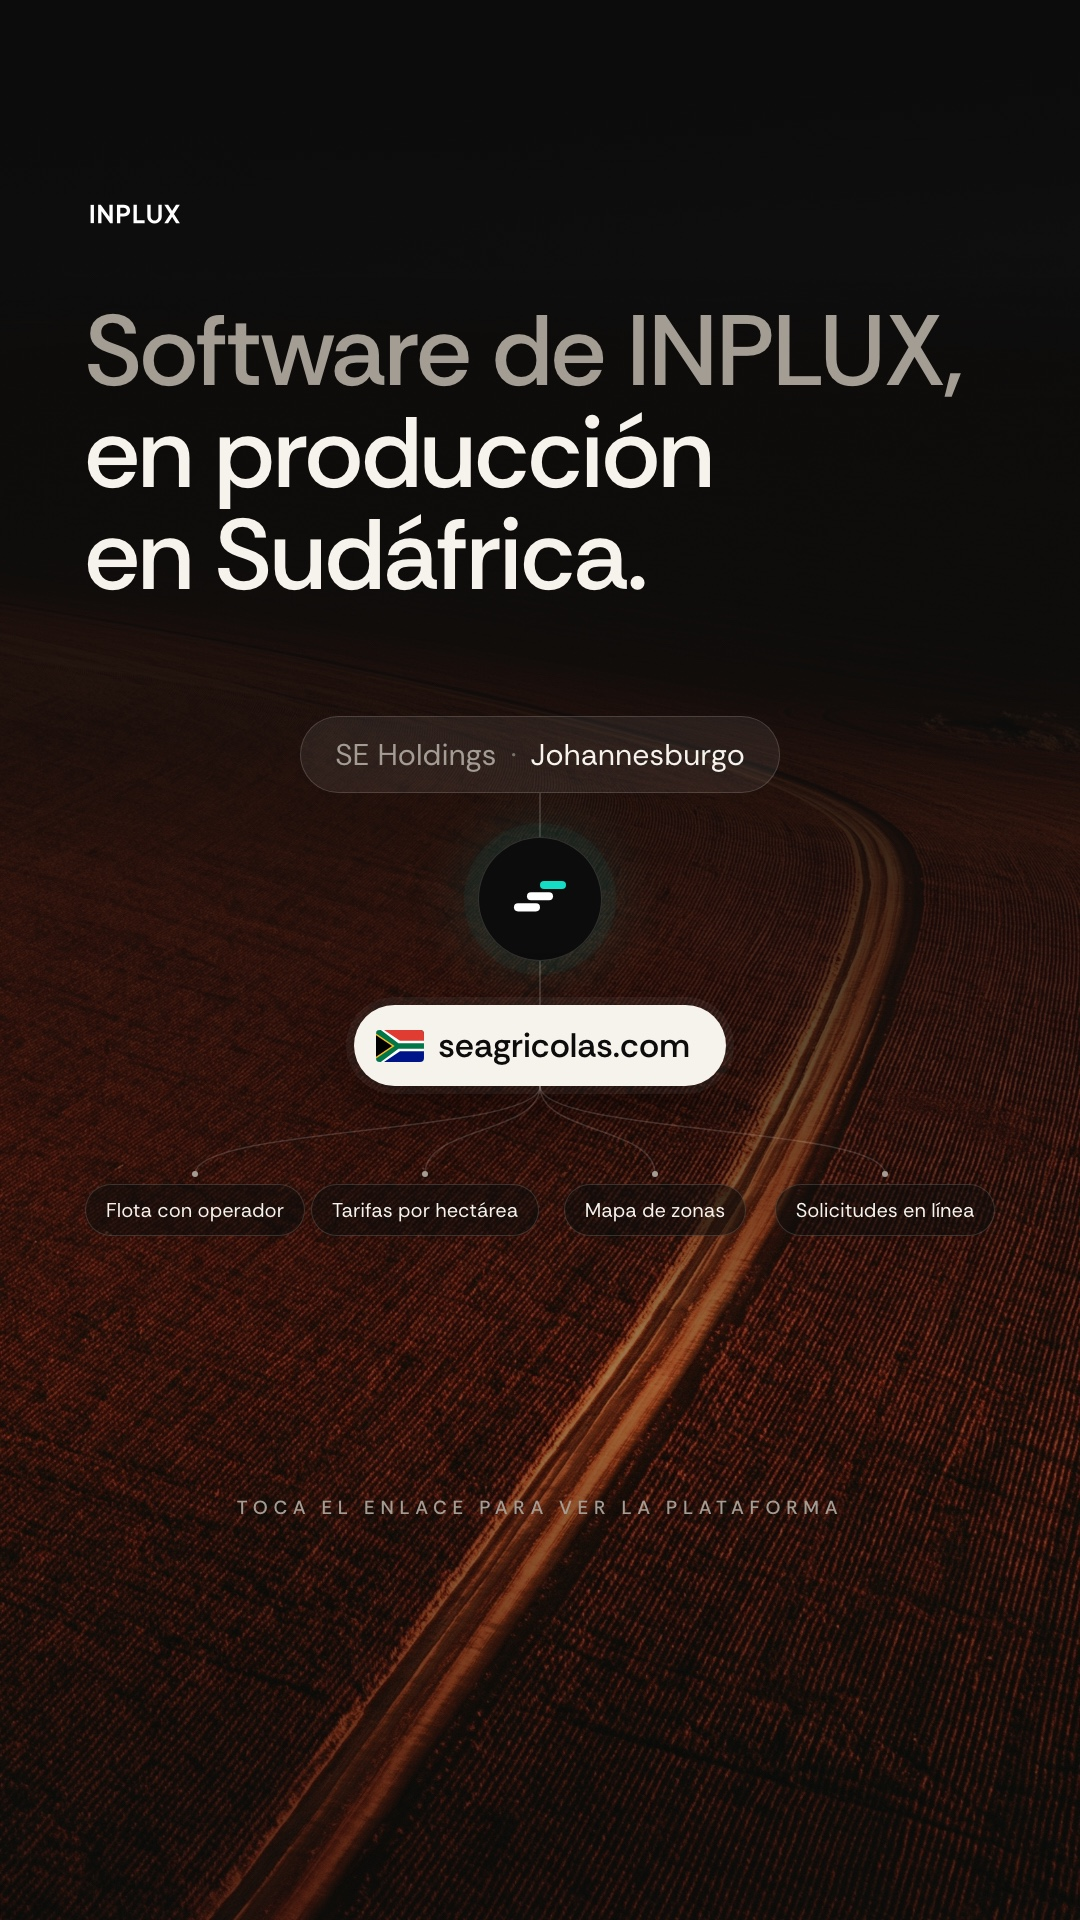
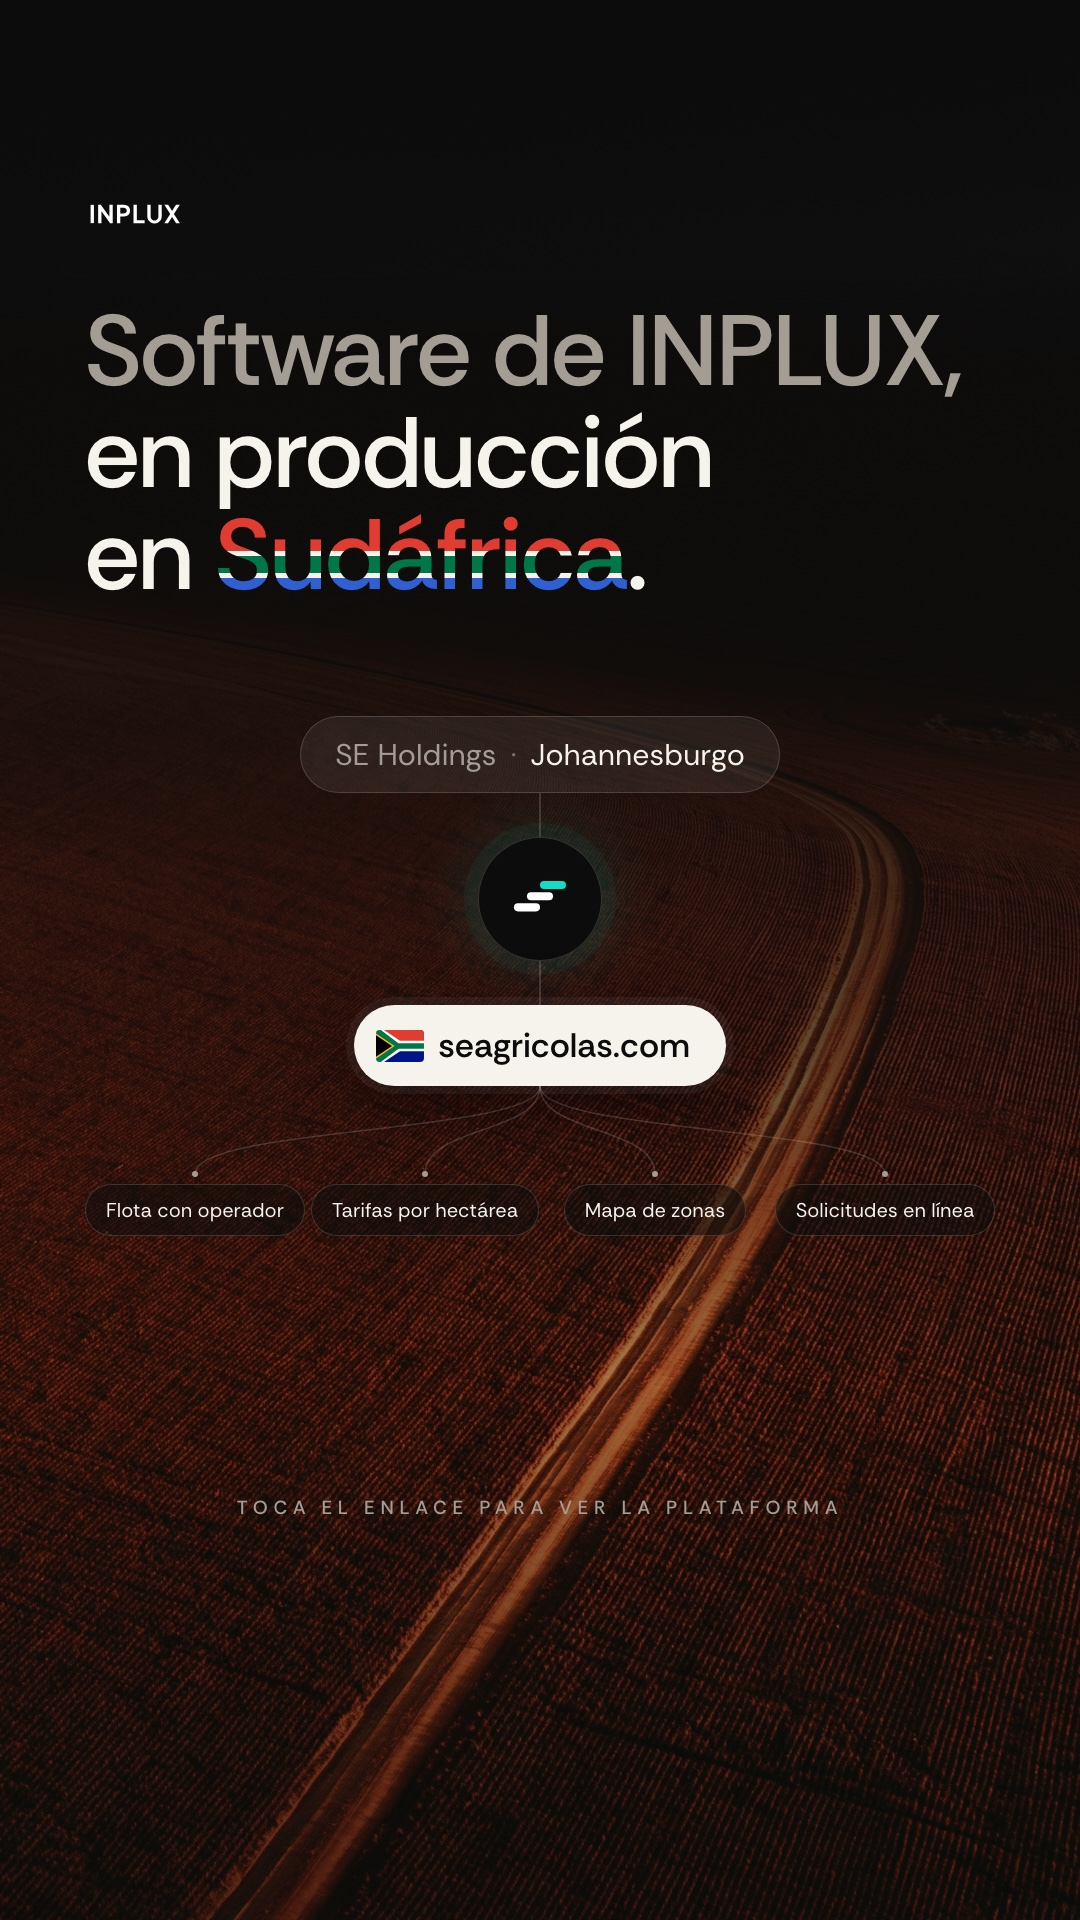
feat(instagram): «Sudáfrica» con las franjas de su bandera en portada e historia

Changed region(s): [[0.1833, 0.25, 0.5806, 0.3125]]

diff --git a/brand/instagram/sudafrica/build.py b/brand/instagram/sudafrica/build.py
@@ -45,6 +45,10 @@ body{{font-family:"Rethink Sans",sans-serif;color:{IVORY};-webkit-font-smoothing
 .capa{{position:absolute;inset:0;display:flex;flex-direction:column}}
 .titular{{font-weight:500;letter-spacing:-.025em;line-height:1.02}}
 .titular .gris{{color:{MUTED}}}
+/* Franjas de la bandera de Sudáfrica dentro de las letras: rojo, filete blanco, verde, filete blanco, azul.
+   El azul (#001489) se aclara un poco porque sobre el negro no se lee. */
+.za{{background:linear-gradient(180deg,#E03C31 0 47%,#f6f2ec 47% 51%,#007749 51% 64%,#f6f2ec 64% 68%,#2f5fd0 68% 100%);
+  -webkit-background-clip:text;background-clip:text;color:transparent}}
 .micro{{font-size:19px;letter-spacing:.3em;text-transform:uppercase;color:{MUTED};font-weight:500}}
 .wordmark{{height:24px;display:block}}
 .pill{{display:inline-flex;align-items:center;gap:14px;border-radius:999px;white-space:nowrap}}
@@ -97,7 +101,7 @@ def portada():
     velo = (f"linear-gradient(180deg,{BLACK} 0%,rgba(12,12,11,.9) 34%,rgba(12,12,11,.45) 70%,rgba(12,12,11,.6) 100%)")
     return head(1080, 1350) + fondo("69b6cfce_1.jpg", velo) + f"""
 <div class="capa" style="padding:150px 84px 0">
-  <h1 class="titular" style="font-size:88px"><span class="gris">Software de INPLUX,</span><br>en producción<br>en Sudáfrica.</h1>
+  <h1 class="titular" style="font-size:88px"><span class="gris">Software de INPLUX,</span><br>en producción<br>en <span class="za">Sudáfrica</span>.</h1>
   <div style="margin-top:84px">{diagrama(860)}</div>
 </div>{marcas_borde(84, arriba="→ Proyecto")}</div></body></html>"""
 
@@ -160,7 +164,7 @@ def historia():
     velo = (f"linear-gradient(180deg,{BLACK} 0%,rgba(12,12,11,.9) 38%,rgba(12,12,11,.4) 72%,rgba(12,12,11,.7) 100%)")
     return head(1080, 1920) + fondo("6becba7e_2.jpg", velo) + f"""
 <div class="capa" style="padding:300px 84px 0">
-  <h1 class="titular" style="font-size:100px"><span class="gris">Software de INPLUX,</span><br>en producción<br>en Sudáfrica.</h1>
+  <h1 class="titular" style="font-size:100px"><span class="gris">Software de INPLUX,</span><br>en producción<br>en <span class="za">Sudáfrica</span>.</h1>
   <div style="margin-top:110px">{diagrama(860)}</div>
 </div>
 <img class="wordmark" src="assets/wordmark-white.svg" style="position:absolute;top:200px;left:84px;height:28px">
